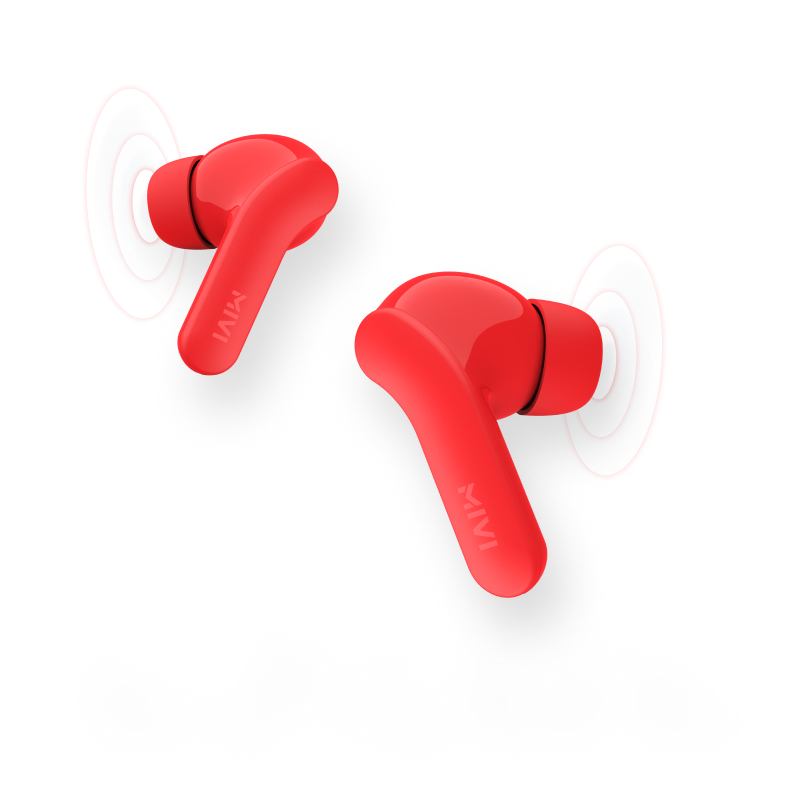
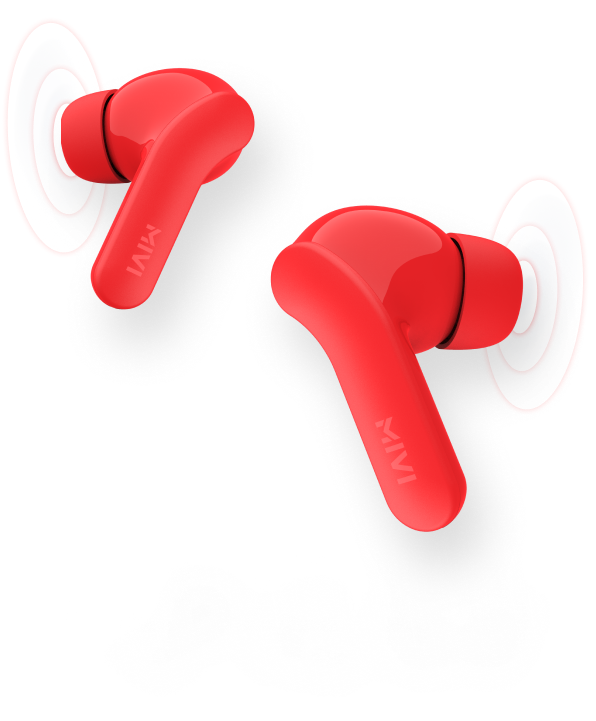
fixed this long hours section

Changed region(s): [[0.453, 0.2746, 0.906, 0.7628], [0.0604, 0.0915, 0.453, 0.4882]]

diff --git a/index.html b/index.html
@@ -188,44 +188,48 @@
     very own playlist sound so much better.</p>
     <img src="assets/blue_right_duopod.png" alt="mivi right duopod" class="w-120 h-120 object-cover -mt-24 mx-auto md:-mt-24">
   </div>
-  <div class="relative flex my-12 max-w-screen-lg md:mx-auto md:h-full">
-    <div class="md:mt-4 relative ml-6 w-3/5 md:w-2/5 3md:w-3/5 bg-transparent">
+  <div class="flex relative">
+    <div class="w-3/5 ml-6 my-24">
       <div class="relative w-15 md:w-24 h-15 md:h-24 rounded-2xl md:rounded-3xl bg-gradient-to-b from-green-light to-green-lighter">
-        <img src="assets/thunder.png" alt="thunder image"
-          class="w-5 h-9 md:w-8 md:h-14 absolute top-3 left-5 md:top-5 md:left-8">
+        <img src="assets/thunder.png" alt="thunder icon" class="w-5 h-9 md:w-8 md:h-14 absolute top-3 left-5 md:top-5 md:left-8">
       </div>
       <p class="relative text-black-lighter text-2xl md:text-4xl leading-none mt-6 capitalize">Built to last</p>
       <h1 class="relative z-10 text-5xl md:text-6xl text-transparent font-bold bg-gradient-to-b from-green-light to-green-lighter bg-clip-text tracking-wide capitalize mt-3">20 long hours</h1>
-      <p class="text-sm md:text-xl leading-5 md:leading-8 opacity-80 text-black-medium mt-3 w-44 md:w-96">We power packed these next gen earbuds with a combined battery life of upto 20 hours. 5 Hours on a single charge!</p> 
+      <p class="text-sm md:text-xl leading-5 md:leading-8 opacity-80 text-black-medium mt-3 w-4/6">We power packed these next gen earbuds with a combined battery life of upto 20 hours. 5 Hours on a single charge!</p>
     </div>
-    <img src="assets/white_duopods_with_bg.png" alt="white-buopods" class="-z-1 float-right absolute right-0 object-left object-cover h-118 w-82 overflow-hidden -top-28 md:-top-14 md:object-center md:object-contain md:w-9/12">
+    <div class="absolute -z-1 right-0">
+      <img src="assets/half_white_duopods.png" alt="half image of white duopods" class="md:hidden">
+      <img src="assets/web-white-duopods.png" alt="full image of white duopods" class="hidden md:block">
+    </div>
   </div>
-  <div class="text-center relative mx-6 pt-12">  
-     <div class="absolute w-full h-4/5 bg-light-gray -z-1 rounded-2xl"></div>
-    <div class="relative mt-8 md:mt-6 w-15 md:w-24 h-15 md:h-24 rounded-2xl md:rounded-3xl bg-gradient-to-b from-red-dark to-orange-lightest mx-auto">
-      <img src="assets/sound_vibrations.png" alt="vibrations icon" class="w-9 h-6 absolute top-4 left-3 md:top-7 md:left-4 md:w-16 md:h-10">
-    </div>
-    <p class="text-black-lighter text-2xl md:text-4xl leading-none mt-6 capitalize">Bass that gives you</p>
-    <h1 class="relative z-10 text-5xl md:text-6xl text-transparent font-bold bg-gradient-to-b from-red-dark to-orange-lightest bg-clip-text mt-2">Chills</h1>
-    <p class="text-sm md:text-xl leading-5 md:leading-8 opacity-80 text-black-medium px-8 md:px-4 mt-6 md:w-3/4 mx-auto">The DuoPods A25 are specially fine tuned to deliver the highest quality bass. Heavy Metal? Hip Hop? Jazz Blues? Works
-    great for all.</p>
-    <img src="assets/red_duopods_with_sound.jpg" alt="red duopods with sound" class="w-80 h-80 mx-auto md:w-2/4 md:h-2/4 mt-5 md:mt-0 lg:-mt-2 lg:mx-0 lg:ml-64">
+  <div class="text-center relative mx-6 mt-6 sm:mt-8 md:mt-14 lg:mt-32">  
+     <div class="absolute w-full h-118 md:h-146 bg-light-gray -z-1 rounded-2xl"></div>
+     <div class="pt-10">
+       <div class="relative w-15 md:w-24 h-15 md:h-24 rounded-2xl md:rounded-3xl bg-gradient-to-b from-red-dark to-orange-lightest mx-auto">
+         <img src="assets/sound_vibrations.png" alt="vibrations icon" class="w-9 h-6 absolute top-4 left-3 md:top-7 md:left-4 md:w-16 md:h-10">
+       </div>
+       <p class="text-black-lighter text-2xl md:text-4xl leading-none mt-4 capitalize">Bass that gives you</p>
+       <h1 class="relative z-10 text-5xl md:text-6xl text-transparent font-bold bg-gradient-to-b from-red-dark to-orange-lightest bg-clip-text mt-2">Chills</h1>
+       <p class="text-sm md:text-xl leading-5 md:leading-8 opacity-80 text-black-medium px-8 md:px-4 mt-6 md:w-3/4 mx-auto">The DuoPods A25 are specially fine tuned to deliver the highest quality bass. Heavy Metal? Hip Hop? Jazz Blues? Works
+       great for all.</p>
+     </div>
+    <img src="assets/red_duopods_with_shadow.jpg" alt="red duopods with sound" class="mx-auto mt-2 w-96 md:w-132 md:mt-0 lg:-mt-2 lg:mx-0 lg:ml-64 object-contain">
   </div>
   <div class="relative flex ml-6">
-    <div class="w-2/5 md:my-10">
-      <div class="relative md:mt-6 w-15 md:w-24 h-15 md:h-24 rounded-2xl md:rounded-3xl bg-gradient-to-b from-ash-dark to-violet-ultra-dark">
+    <div class="w-2/5 md:my-8 pb-8">
+      <div class="relative w-15 md:w-24 h-15 md:h-24 rounded-2xl md:rounded-3xl bg-gradient-to-b from-ash-dark to-violet-ultra-dark">
         <img src="assets/running.png" alt="icon of a runninng person" class="absolute w-7 h-9 top-3 left-4 md:w-11 md:h-14 md:top-5 md:left-7">
       </div>
       <p class="text-black-lighter text-2xl md:text-4xl leading-none mt-4 capitalize">you move</p>
       <h1 class="relative z-10 text-5xl md:text-6xl text-transparent font-bold bg-gradient-to-b from-ash-dark to-violet-ultra-dark bg-clip-text capitalize mt-2">they stay.</h1>
       <p class="text-sm md:text-xl leading-5 md:leading-8 opacity-80 text-black-medium my-3  md:w-10/12">Thanks to this evenly spread weight, the earbuds are tested to not drop, EVER. Deadlift your heart out, do some crunches or maybe even run a marathon, they never fall off.</p>
     </div>
-    <div class="absolute -z-1 right-0 bottom-0 md:top-0">
-      <img src="assets/mobile-exercising.jpg" alt="" class="md:hidden">
-      <img src="assets/web-exercising.jpg" alt="" class="hidden md:block">
+    <div class="absolute -z-1 w-full h-full">
+      <img src="assets/mobile-exercising.jpg" alt="" class="md:hidden h-full float-right">
+      <img src="assets/web-exercising.jpg" alt="" class="hidden md:inline md:h-full 2md:h-auto">
     </div>
   </div>
-  <div class="mt-4 bloc">
+  <div class="mt-4 block">
     <img src="" alt="indian flag">
     <p>Engineered in India.</p>
     <h1>Made In India</h1>

diff --git a/tailwind.config.js b/tailwind.config.js
@@ -30,12 +30,14 @@ module.exports = {
         '41': '10.15rem',
         '82': '23rem',
         '120': '36.25rem',
+        '132':'42.375rem'
       },
       height: {
         '15': '3.75rem',
         '82': "22rem",
         '120': '36.25rem',
-        '118': '33.75rem'
+        '118': '33.75rem',
+        '146': '51.5rem'
       },
       zIndex: {
         '-1': '-1'
